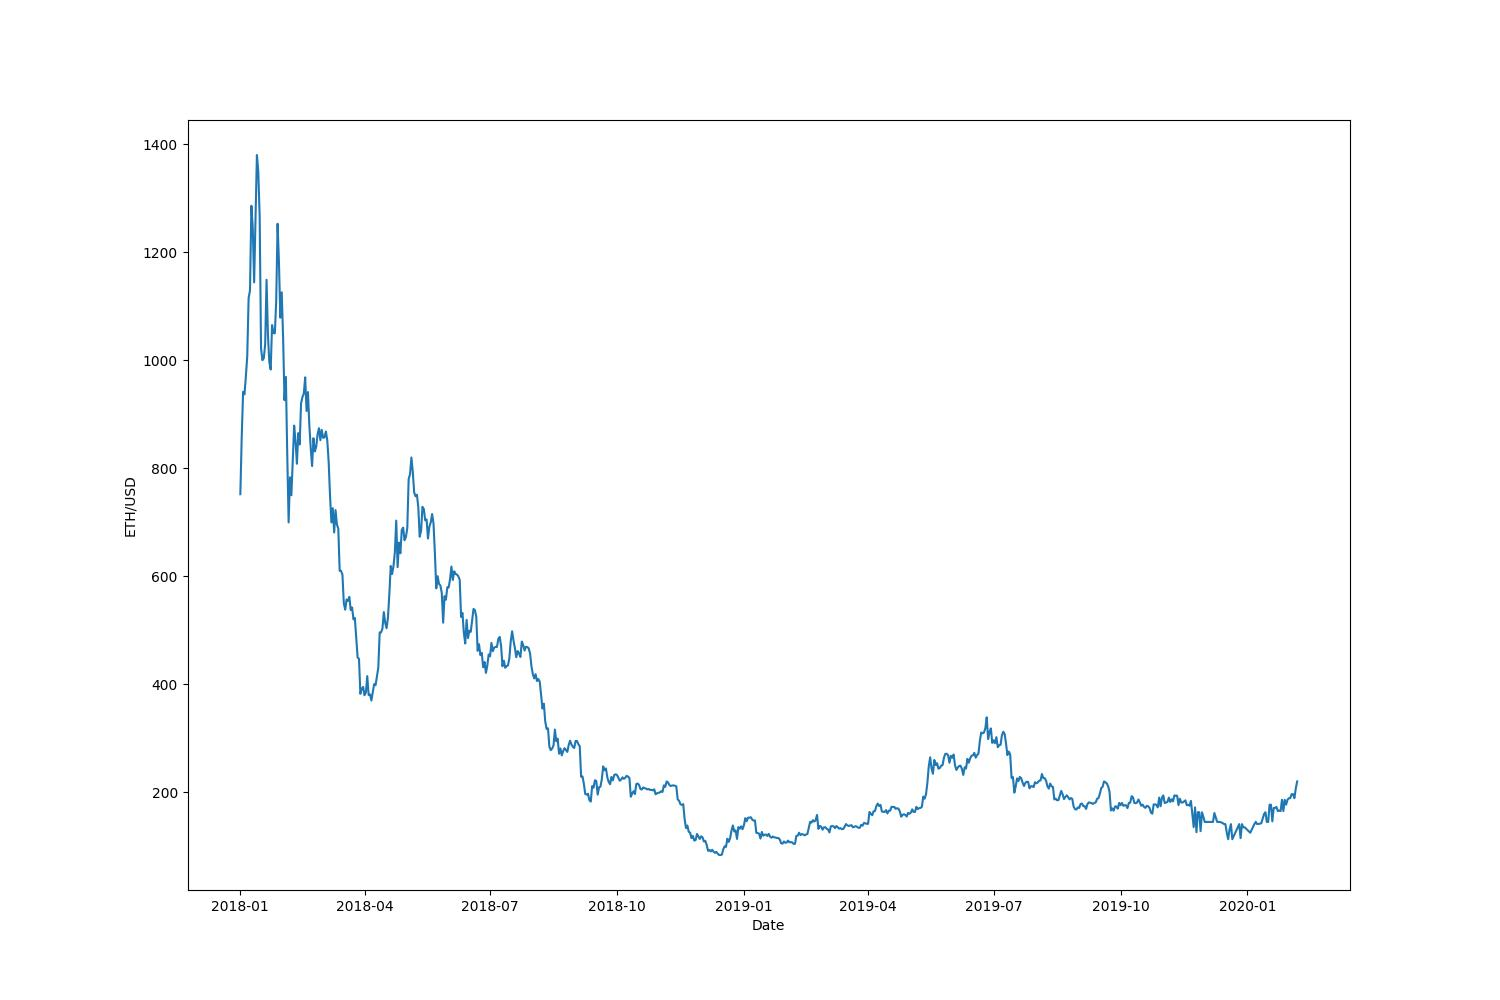
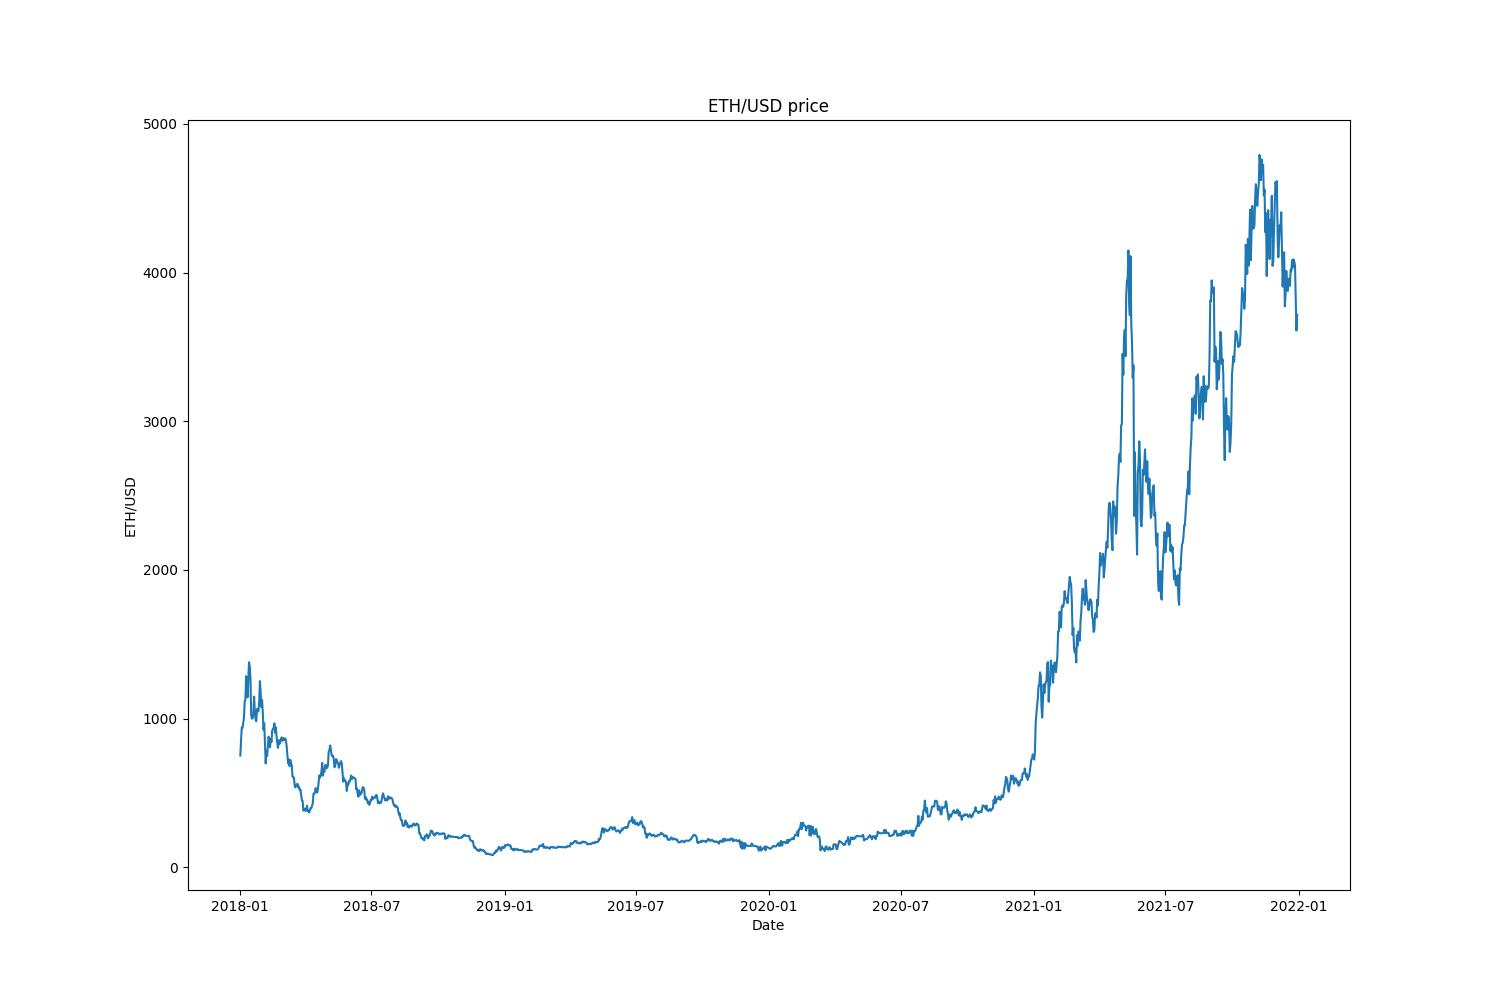
updates

diff --git a/_posts/2022-01-04-geometric-brownian-motion-1.md b/_posts/2022-01-04-geometric-brownian-motion-1.md
@@ -16,7 +16,7 @@ comments: true
 last_modified_at: 2022-01-04T08:06:00-05:00
 ---
 
-이번 포스트에서는 Geometric Brownian Motion을 이용하여 이더리움의 미래 가격에 대한 시뮬레이션을 수행해본다.  
+이번 포스트에서는 Geometric Brownian Motion을 이용하여 이더리움의 미래 가격경로에 대한 시뮬레이션을 수행해본다.  
 
 
 ## 1. Geometric Browniam Motion    
@@ -32,13 +32,13 @@ $$
 \cdot \textit{S}: Asset\;price\;for\;the\;initial\;period\\
 \cdot \mu: Expected\;return\;for\;the\;time\;period\;or\;the\;drift\\
 \cdot \textit{dt}: Change\;in\;time\\     
-\cdot \sigma: Volatility of asset price\\
-\cdot \textit{dW}: Change\;in\;Brownian motion\;term\\
+\cdot \sigma: Volatility\; of\; asset\; price\\
+\cdot \textit{dW}: Change\;in\;Brownian\; motion\;term\\
 $$
 
 (1) 수식은 짧은 시간 간격 동안의 자산가격 변화가 짧은 시간 간격(dt) 동안의 평균적인 수익률(drift)과 랜덤한 충격에 의한 변동분의 합으로 나타남을 의미한다.
 
-(1) 수식에 Ito formula를 적용하면 아래와 같은 Geometric Brownian motion 수식을 유도할 수 있다.
+(1) 수식에 Ito formula(다른 포스트에서 추가 설명 예정)를 적용하면 아래와 같은 Geometric Brownian motion 수식을 유도할 수 있다.
 
 $$
 S_{t} = S_{0}\textit{e}^{(\mu -\frac{1}{2}\sigma ^{2})t+\sigma \textit{W}_{t}}\;\;\;(2)\\
@@ -68,18 +68,30 @@ pyupbit.get_tickers(fiat = 'USD')
 >>> ['USDT-BTC', 'USDT-ETH', 'USDT-LTC', 'USDT-XRP', 'USDT-ETC', 'USDT-OMG', 'USDT-ADA', 'USDT-TUSD', 'USDT-SC', 'USDT-TRX', 'USDT-BCH', 'USDT-DGB', 'USDT-DOGE', 'USDT-ZRX', 'USDT-RVN', 'USDT-BAT']
 ```
 
-여기에서는 The Decentralized Financial Crisis: Attacking DeFi 논문의 replication을 위해 2018.1.1 ~ 2020.2.7일의 ETH-USDT 종가 data를 다운받는다. 
+여기에서는 The Decentralized Financial Crisis: Attacking DeFi 논문의 replication을 참고하여 2018.1.1 ~ 2021.12.31일의 ETH-USDT 종가 data를 다운받는다. 
 
 ```python
-# 함수에 넣을 argumets 세팅
+# 함수에 넣을 arguments 세팅
 ticker = 'USDT-ETH'
 interval = 'day1'
-to = '2020-02-07'
-count = 752
+to = '2021-12-31'
+from_ = '2018-01-01'
+count = int(str(pd.to_datetime(to) - pd.to_datetime(from_)).split(' ')[0])
 
-## eth_data에 해당기간 자료를 저장
+# eth_data에 해당기간 자료를 저장
 # get_ohlcv를 통해 일별 가격정보(open, high, low, close), 거래량(volume) 등의 정보를 저장
 eth_data = pyupbit.get_ohlcv(ticker = ticker, interval = interval, to = to, count = count)
+```
+
+```python
+eth_data.head()
+
+                         open        high  ...        volume         value
+2017-12-07 09:00:00  415.0000  427.000000  ...  49142.959116  2.005423e+07
+2017-12-08 09:00:00  410.0000  452.565702  ...  39610.775920  1.679753e+07
+2017-12-09 09:00:00  440.0000  486.860000  ...  42490.245612  1.969863e+07
+2017-12-10 09:00:00  461.0099  461.450722  ...  25390.988800  1.102167e+07
+2017-12-11 09:00:00  431.0000  510.100000  ...  30042.320160  1.415567e+07
 ```
 
 분석을 위해 eth_data dataframe중 종가(close) 정보만 남기고 날짜를 'yyyy-mm-dd' 형태로 정리한다.
@@ -93,19 +105,146 @@ eth_price.rename(columns = {'index':'date', 'close':'close'}, inplace = True)
 
 # 시-분-초까지 표현되어 있는 date를 'yyyy-mm-dd' 형식으로 변경
 eth_price['date'] = pd.to_datetime(eth_price['date']).dt.date
+
+# 원하는 자료 구간으로 자르기, get_ohlcv에서 count는 영업일 기준이기 때문에 우리가 원하는 기간 시작점과 차이가 있음
+date_idx = int(np.where(eth_price['date'] == pd.to_datetime(from_))[0])
+eth_price = eth_price.loc[date_idx: ]
 ```
 
-해당 기간(2018.1.1 ~ 2020.2.7)의 이더리움 가격을 그래프로 표현해보자.
+```phython
+eth_price.head()
+
+          date       close
+25  2018-01-01  751.911550
+26  2018-01-02  857.550000
+27  2018-01-03  941.574258
+28  2018-01-04  936.729524
+29  2018-01-05  969.802500
+```
+
+해당 기간(2018.1.1 ~ 2021.12.31)의 이더리움 가격을 그래프로 표현해보자.
 ```python
 # 그래프 그리기
 plt.figure(figsize= (15, 10))
 plt.plot(eth_price['date'], eth_price['close'])
 plt.xlabel('Date')
 plt.ylabel('ETH/USD')
+plt.title('ETH/USD price')
 plt.show()
 ```
-
 ![](https://github.com/dswcrispr/dswcrispr.github.io/blob/master/assets/images/eth_price.jpg?raw=true)
 
+<br>
+  
+## 3. Geometric Brownian Motion 시뮬레이션 
+
+위에서 구한 이더리움 가격 data를 바탕으로 Geometric Brownian Motion 시뮬레이션을 구현해본다.  
+<br>
+앞서 소개한 Geometric Brownian Motion 수식을 다시 써보면 아래와 같다. 
+
+$$
+S_{t} = S_{0}\textit{e}^{(\mu -\frac{1}{2}\sigma ^{2})t+\sigma \textit{W}_{t}}\;\;\;(2)\\
+$$  
+
+이더리움 가격에 대한 시뮬레이션은 위 (2)식의 변수에 값을 대입하여 $\textit{S}_{0}$으로부터 $\textit{S}_{1}$, $\textit{S}_{2}$ ... $\textit{S}_{t}$ 값들을 계산해 나가는 과정이다.  
+
+이때 초기값($\textit{S}_{0}$)은 2020.2.7일의 이더리움 가격이며, $\mu$는 2018.1.1 ~ 2021.12.31 기간 중 이더리움 일일 수익률의 평균값, $\sigma$는 일일 수익률의 표준편차를 이용한다.  
+
+Brownian motion 항($\textit{W}_{t})$은 
+
+각 k 시점마다의 충격 $\textit{b}_{k} \sim \textit{N}(0, k)$의 합 즉, $\textit{W}_{t} = \sum_{k=1}^{t}\textit{b}_{k}$ 으로 주어지며, 여기에서는 이더리움의 일별 가격자료를 활용하므로 $\textit{k}$ = 1로 둔다.  
+
+실제 계산에서는 (2)식의 $\textit{e}^{(\mu -\frac{1}{2}\sigma ^{2})t+\sigma \textit{W}_{t}}$ 부분을 drift 항($\textit{e}^{(\mu -\frac{1}{2}\sigma ^{2})}t$)과 diffusion 항($\textit{e}^{\sigma \textit{W}_{t}}$)으로 분리하여 $\textit{S}_{0}$에 곱하는 식으로 $\textit{S}_{t}$을 구한다.
+
+<br>
+
+이제 simulation에 필요한 변수들을 아래와 같이 설정한다. 
+
+```python
+## Simulation 변수 설정
+
+# dt: 이더리움의 일별 가격을 이용하기 때문에 시간 간격을 1로 설정)
+dt = 1
+
+# T: 예측기간, 여기에서는 100일 뒤까지의 가격 경로를 시뮬레이션
+T = 100
+
+# N 
+N = T / dt
+
+# n: simulation path의 수
+n = 100
+
+# s0: 앞서 구한 이더리움 가격의 최종값을 시뮬레이션 초기 가격으로 설정
+s0 = eth_price.loc[eth_price.shape[0] - 1, 'close']
+
+# mu: 이더리움 데이터로부터의 역사적 일별수익률의 평균
+returns = (eth_price.loc[1:, 'close'] - eth_price.shift(1).loc[1:, 'close']) / eth_price.shift(1).loc[1:, 'close']
+
+mu = np.mean(returns)
+
+print(mu)
+>>> mu
+0.003249842232051855
+
+# sigma: mu의 표준편차
+sigma = np.std(returns)
+
+print(sigma)
+>>> sigma
+0.065230344178387
+```
+
+아래에서는 GBM(Geometric Brownian Motion) 클래스안에 simulate 함수를 정의한다.
+```python
+# GBM(Geometric Brownian Motion) 클래스 정의
+class GBM:
+
+    def simulate(self):
+        while(self.T > 0):
+            # drift 항 계산
+            drift = (self.mu - (0.5 * self.sigma**2)) * (T - self.T + 1)
+            # diffusion 항 계산
+            diffusion = self.sigma * self.b.cumsum()[T - self.T]
+            # 새롭게 계산된 St 값을 self.prices 변수에 추가
+            self.prices.append(self.current_price * np.exp(drift + diffusion))
+            # loop 마다 1일이 지남을 반영 
+            self.T -= self.dt
 
 
+    def __init__(self, s0, mu, sigma, dt, T):
+        # 초기 변수들
+        self.current_price = s0
+        self.mu = mu
+        self.sigma = sigma
+        self.b = np.random.normal(0, dt, int(N))
+        self.dt = dt
+        self.T = T
+        self.prices = []
+        # simulate 함수를 실행
+        self.simulate()   
+```
+
+위에서 설정한 simulation에 필요한 변수를 GBM 클래스에 대입하여 $\textit{S}_{1}$, $\textit{S}_{2}$ ... $\textit{S}_{T}$을 계산하고, 이를 그래프로 표현한다.
+ 
+``` python
+# simulation 결과를 저장할 비어있는 list 생성
+simulations = []
+
+# random.seed 설정(코드 반복 수행시 동일한 random값을 얻기 위해서)
+np.random.seed(100)
+
+# simulation 수행 및 그래프 그리기(총 n번의 simulation 수행)
+plt.figure(figsize=(20, 10))
+for i in range(0, n):
+    simulations.append(GBM(s0, mu, sigma, dt, T))
+
+for sim in simulations:
+    plt.plot(np.arange(0, len(sim.prices)), sim.prices)
+    plt.ylabel('Price evolution')
+    plt.xlabel('Time steps(days)')
+    plt.title("ETH/USD price Monte Carlo Simulation")
+
+plt.show()
+```
+![](https://github.com/dswcrispr/dswcrispr.github.io/blob/master/assets/images/simulation.jpg?raw=true)
